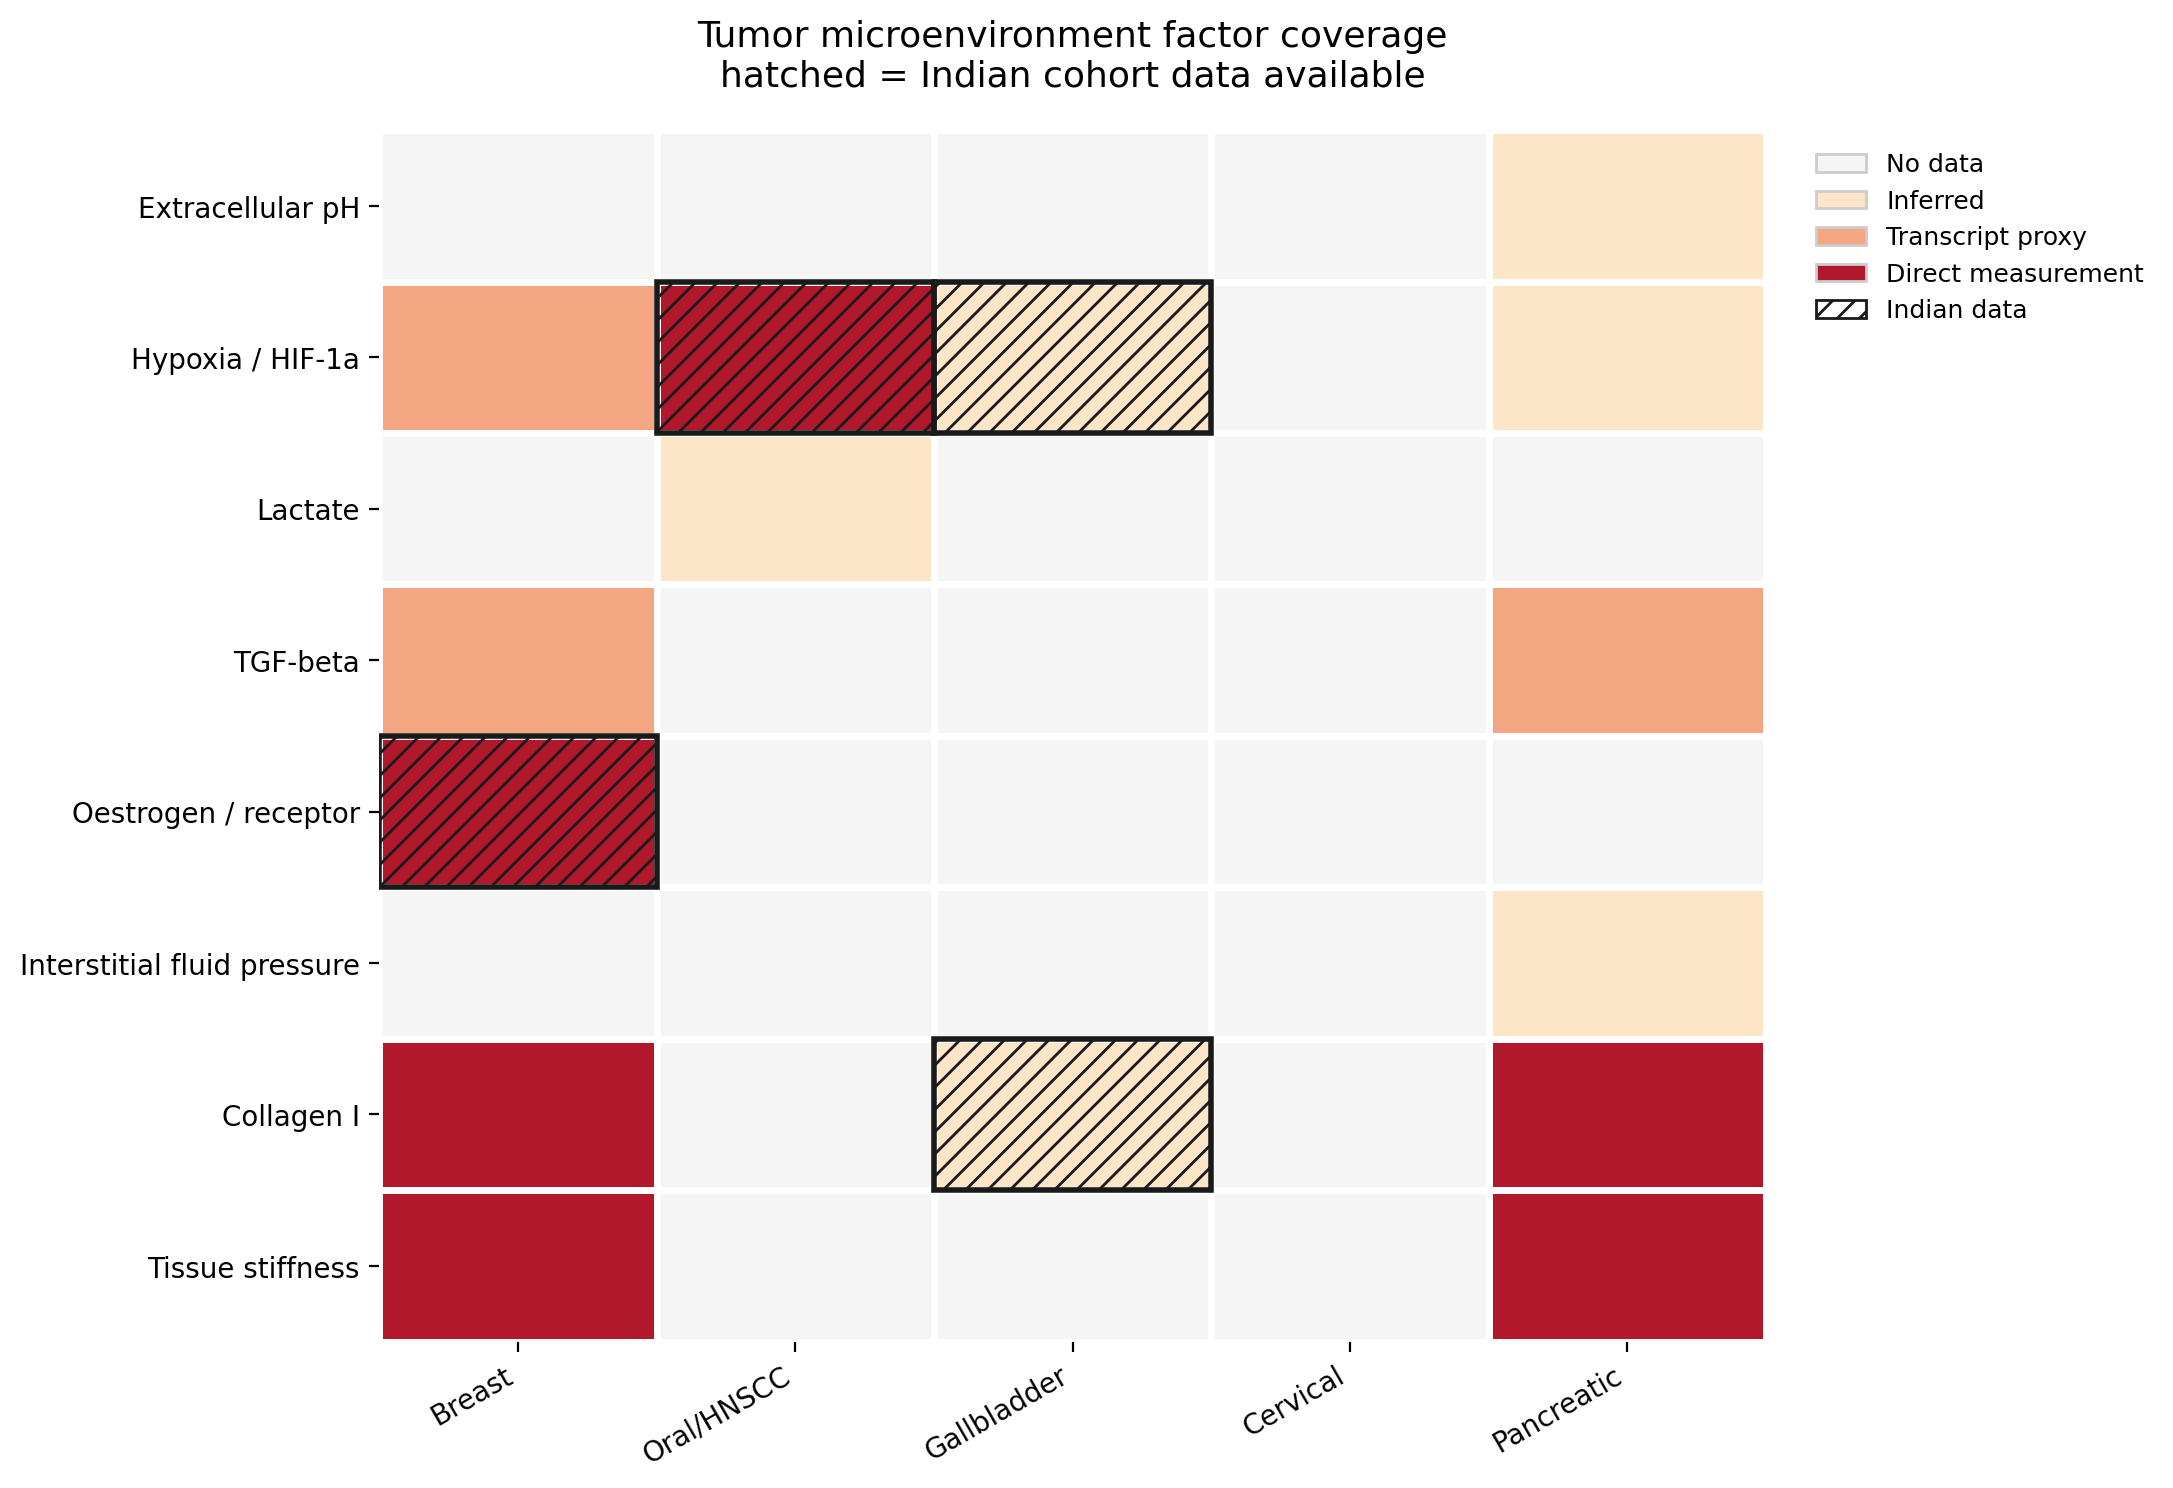
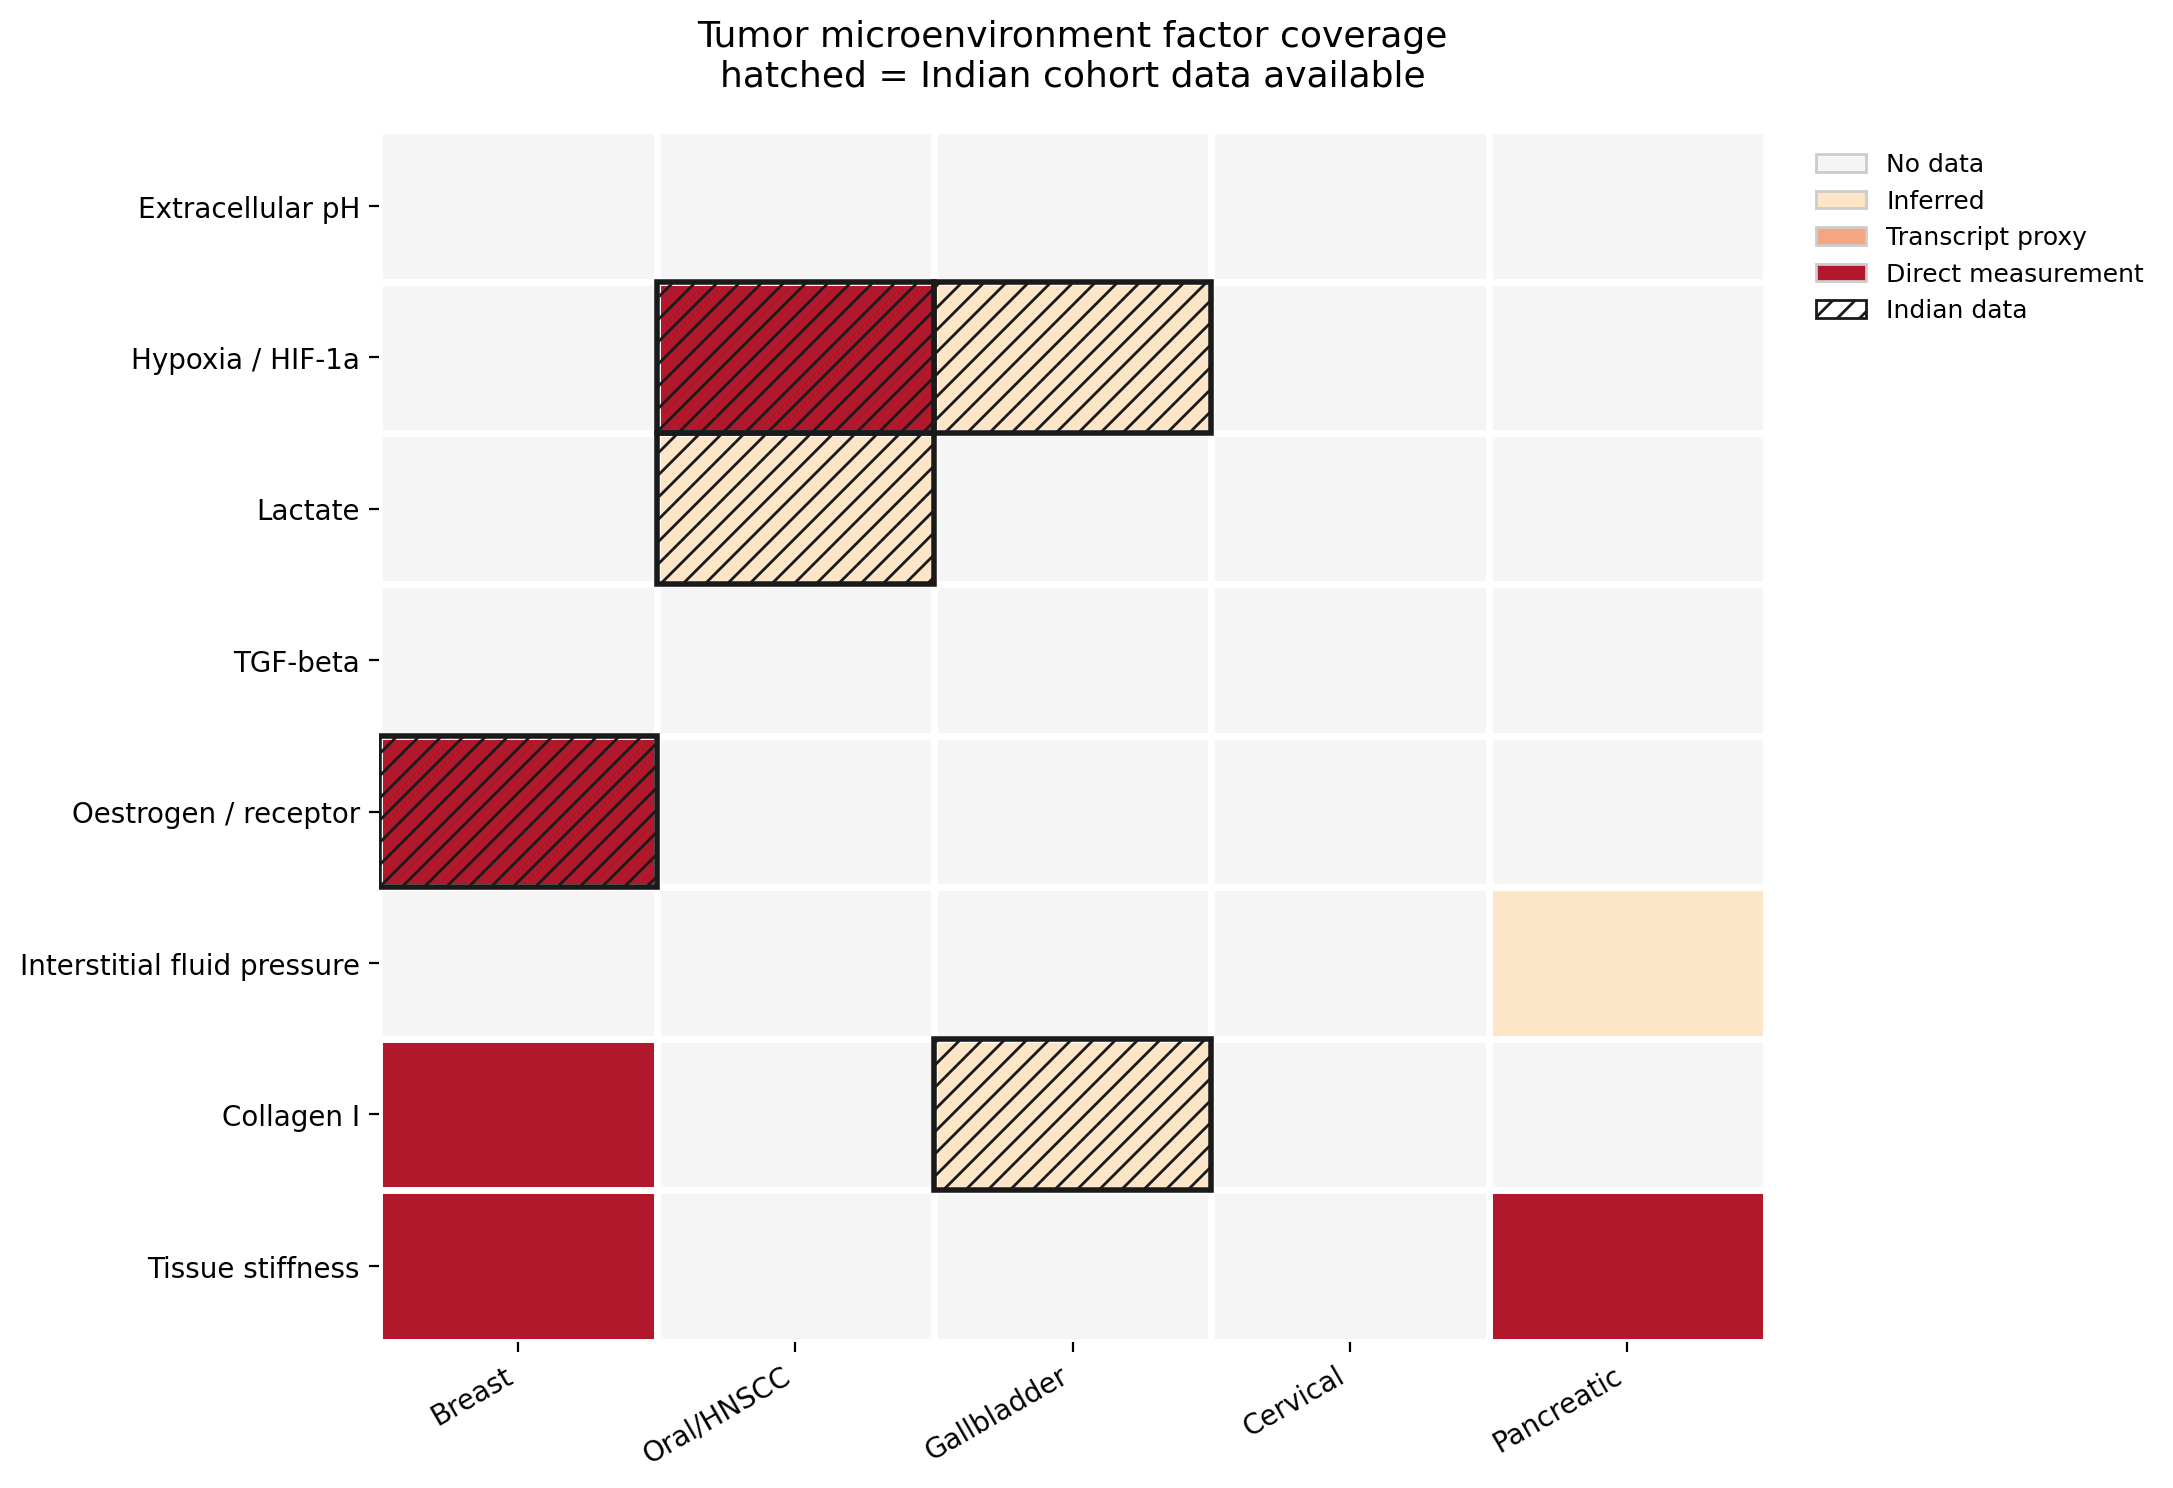
Audit coverage grid against recorded sources
Every non-empty cell checked against the Sources list of its own factor
entry. Six cells were coded as having evidence with no source recorded
as read; reset to none. One cell had an Indian source recorded but was
not flagged as such; corrected.

Empty cells 62% -> 78%. Indian cells 10% -> 12%. Full audit trail and
restoration criteria in docs/coverage-gap.md. Adds factor_id as a join
key between coverage.csv and factors.csv.

diff --git a/docs/coverage-gap.md b/docs/coverage-gap.md
@@ -20,8 +20,8 @@ generated by `scripts/make_heatmap.py`.
 
 8 factors x 5 tumor types = 40 cells.
 
-- **25 cells (62%) have no data**
-- **4 cells (10%) have Indian data**
+- **31 cells (78%) have no data**
+- **5 cells (12%) have Indian data**
 - **Cervical cancer: entirely empty** across all eight factors
 
 ## Where the Indian data sits
@@ -32,17 +32,45 @@ generated by `scripts/make_heatmap.py`.
 | Hypoxia / HIF-1a | Gallbladder | Inferred | HIF1 activation in iTRAQ proteomics |
 | Collagen I | Gallbladder | Inferred | ECM remodelling in iTRAQ proteomics |
 | Oestrogen / receptor | Breast | Direct | ICGA cohort, Indian BC transcriptomics |
+| Lactate | Oral/HNSCC | Inferred | GLUT1/HIF-1a proxy, Indian OSCC and dysplasia |
 
-Three of the four trace to two research groups: ICMR-NIP Delhi (gallbladder
+Four of the five trace to two research groups: ICMR-NIP Delhi (gallbladder
 proteomics) and Indian oral pathology departments (HIF IHC). The Indian evidence
 base is narrower than a paper count suggests.
+
+## Verification log
+
+The grid is audited against the `Sources` list of each factor entry. A cell may
+only be coded above `none` if that entry records a source as read (`- [x]`).
+
+**2026-09-02 — first audit.** Seven cells were changed. Six were coded as having
+evidence but no read source was recorded in the corresponding entry; they were
+reset to `none`. One had an Indian source recorded but was not flagged as such.
+
+| Factor | Tumor type | Was | Now | Reason |
+|---|---|---|---|---|
+| Extracellular pH | Pancreatic | `inferred` | `none` | No pancreatic source in entry; Variation section still marked to-be-populated |
+| Hypoxia / HIF-1a | Breast | `transcript` | `none` | No breast source recorded |
+| Hypoxia / HIF-1a | Pancreatic | `inferred` | `none` | No pancreatic source recorded |
+| TGF-beta | Breast | `transcript` | `none` | Only reviews marked read; no transcript dataset cited |
+| TGF-beta | Pancreatic | `transcript` | `none` | Same |
+| Collagen I | Pancreatic | `direct` | `none` | No pancreatic source recorded |
+| Lactate | Oral/HNSCC | `india: no` | `india: yes` | Entry records an Indian proxy source as read (rs-10569258) |
+
+Effect on headline figures: empty cells 62% -> 78%, Indian cells 10% -> 12%.
+
+**These are not deletions.** Each cell is restored the moment a source is read
+and added to the entry's `Sources` list. The audit made the figure more empty,
+which strengthens rather than weakens the argument: the gap is the finding, and
+a gap derived under a strict rule is one that survives questioning.
 
 ## Concrete gaps worth naming
 
 1. **No Indian tumor stiffness measurement exists.** No AFM, rheometry, or
    elastography characterisation of Indian tumor tissue was found. Directly
    addressable with standard biomaterials-lab equipment.
-2. **No Indian pH, lactate, or IFP measurement exists.**
+2. **No Indian pH or IFP measurement exists.** Lactate has an Indian proxy signal
+   only (GLUT1/HIF-1a in OSCC), not a concentration measurement.
 3. **Cervical cancer is uncharacterised for every factor in this atlas**, despite
    high Indian incidence. Indian cervical genomic and expression datasets exist,
    so the transcript-level cells are fillable without new experiments.
@@ -66,4 +94,5 @@ base is narrower than a paper count suggests.
   evidence here means absence of *found* evidence.
 - Search was English-language and database-indexed. Indian journal literature
   not indexed in PubMed may contain relevant work.
-- 5 tumor types and 8 factors is a pilot grid. Target is 15 x 8.
+- 5 tumor types and 8 factors is a pilot grid. Target is 15 factors x 8 tumor
+  types.
